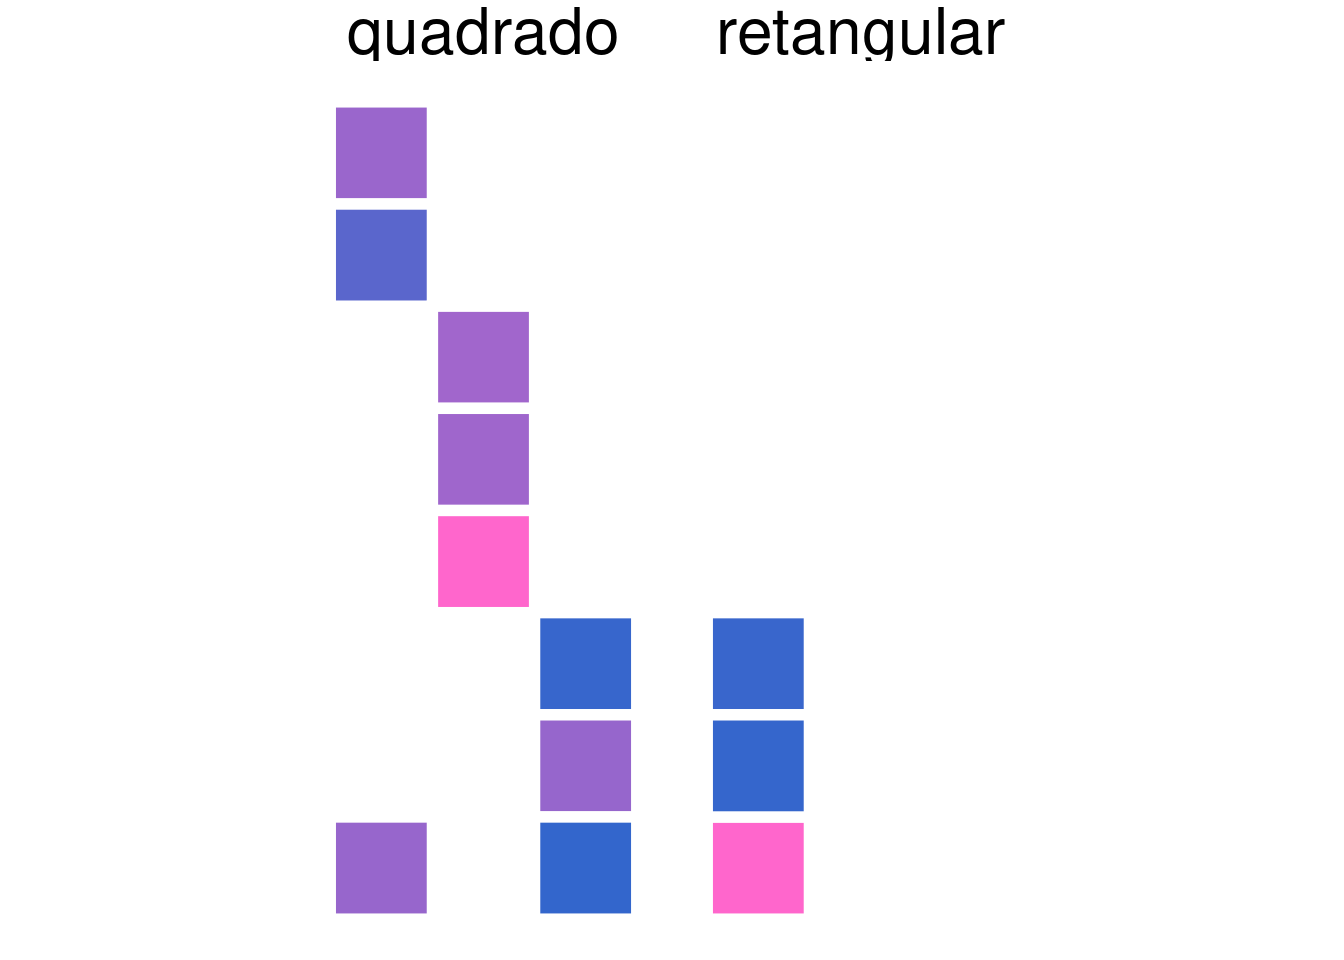
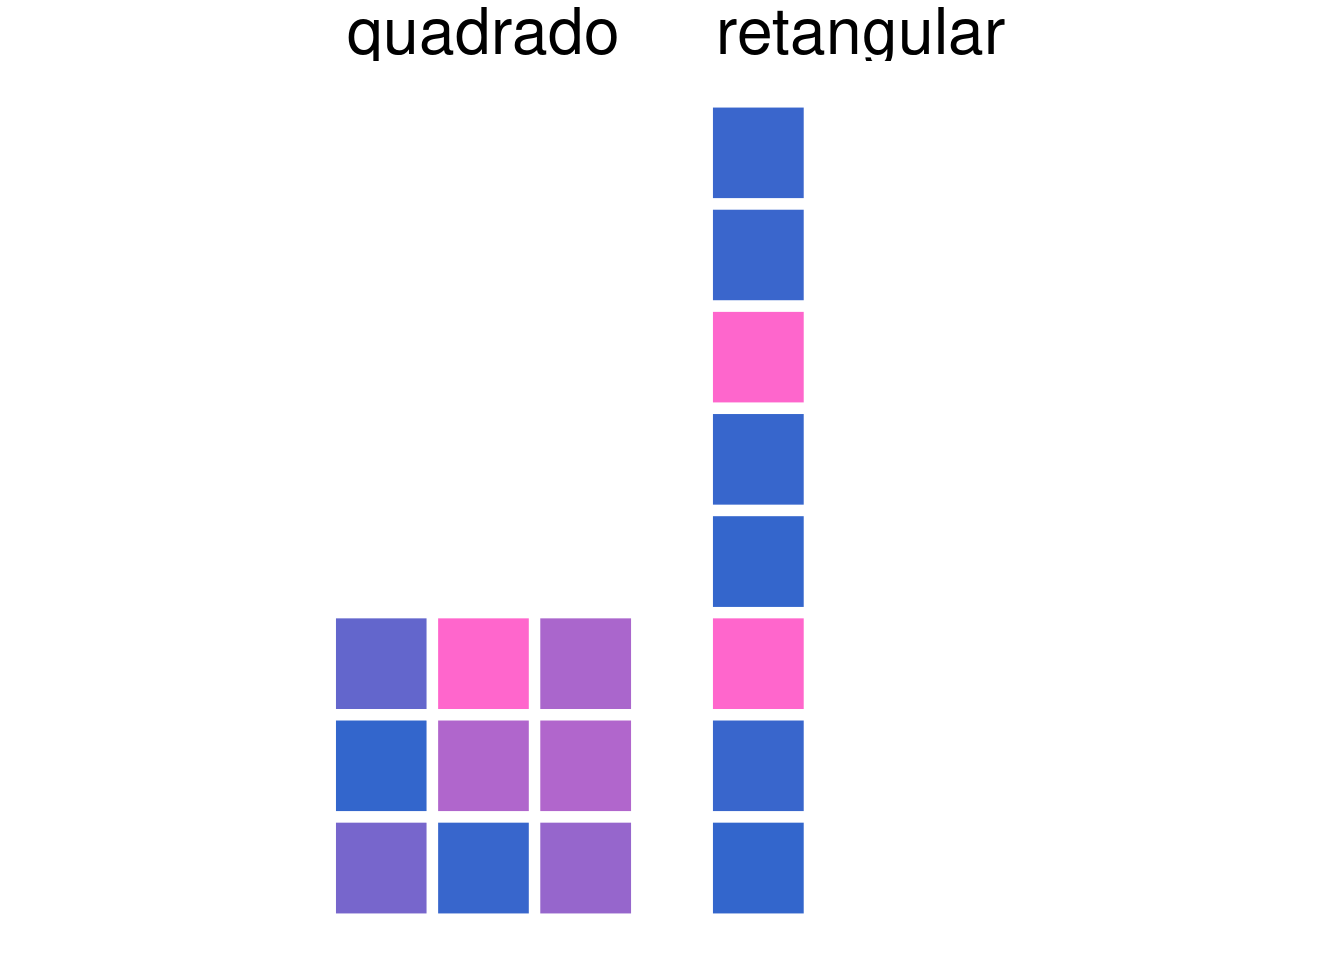
fix quadrado vs retangulo

Changed region(s): [[0.25, 0.0938, 0.4688, 0.9688], [0.5312, 0.0938, 0.625, 0.75], [0.5312, 0.8438, 0.625, 0.9688]]

diff --git a/content/blog/2020-12-30-retangulo-vs-quadrado.html b/content/blog/2020-12-30-retangulo-vs-quadrado.html
@@ -10,12 +10,11 @@ summary: "Em modelos de CNN é comum usar kernels quadrados. Mas a depender do p
 draft: false
 ---
 
-<script src="/rmarkdown-libs/header-attrs/header-attrs.js"></script>
 
 
 <div id="exemplo-passarinho-versus-sapo" class="section level2">
 <h2>Exemplo: Passarinho versus Sapo</h2>
-<p>Em modelos de CNN é comum usar kernels quadrados. Mas a depender do problema, kernels com outros formatos podem ajudar como mostrado em <span class="citation">(<a href="#ref-inproceedings" role="doc-biblioref">Sun, Ozay, and Okatani 2016</a>)</span>! Um exemplo é o kernel retangular quando se está mexendo com sons e seus respectivos espectrogramas. Para ilustar eu vou criar dois “espectrogramas” bem simples, assim:</p>
+<p>Em modelos de CNN é comum usar kernels quadrados. Mas a depender do problema, kernels com outros formatos podem ajudar como mostrado em <span class="citation">(Sun, Ozay, and Okatani 2016)</span>! Um exemplo é o kernel retangular quando se está mexendo com sons e seus respectivos espectrogramas. Para ilustar eu vou criar dois “espectrogramas” bem simples, assim:</p>
 <pre class="r"><code>library(torch)
 library(tidyverse)
 library(mestrado)
@@ -71,20 +70,20 @@ Figure 1: Espectrogramas para um sapo e um passarinho. Os animais fazem sons em 
 conv_quadrada(x)
 ## torch_tensor
 ## (1,1,.,.) = 
-##   0.4738  0.4164  0.1471  0.3151
-##   0.4156  0.2543  0.0832  0.3151
-##  -0.2593 -0.1353  0.0961  0.3151
-##   0.3151  0.3151  0.3151  0.3151
-##   0.3151  0.3151  0.3151  0.3151
-##   0.3151  0.3151  0.3151  0.3151
+##   0.2844  0.1517  0.2313  0.4015
+##  -0.1726  0.0824  0.3337  0.4015
+##   0.6913  0.5324  0.2523  0.4015
+##   0.4015  0.4015  0.4015  0.4015
+##   0.4015  0.4015  0.4015  0.4015
+##   0.4015  0.4015  0.4015  0.4015
 ## 
 ## (2,1,.,.) = 
-##   0.3151  0.3151  0.3151  0.3151
-##   0.3151  0.3151  0.3151  0.3151
-##   0.3151  0.3151  0.3151  0.3151
-##   0.4738  0.4164  0.1471  0.3151
-##   0.4156  0.2543  0.0832  0.3151
-##  -0.2593 -0.1353  0.0961  0.3151
+##   0.4015  0.4015  0.4015  0.4015
+##   0.4015  0.4015  0.4015  0.4015
+##   0.4015  0.4015  0.4015  0.4015
+##   0.2844  0.1517  0.2313  0.4015
+##  -0.1726  0.0824  0.3337  0.4015
+##   0.6913  0.5324  0.2523  0.4015
 ## [ CPUFloatType{2,1,6,4} ]</code></pre>
 </div>
 <div id="cnn-retangular" class="section level4">
@@ -93,10 +92,10 @@ conv_quadrada(x)
 conv_retangular(x)
 ## torch_tensor
 ## (1,1,.,.) = 
-##   0.1209  0.1209  0.1209 -0.0246 -0.0246 -0.0246
+##  -0.3380 -0.3380 -0.3380 -0.4634 -0.4634 -0.4634
 ## 
 ## (2,1,.,.) = 
-##  -0.3217 -0.3217 -0.3217 -0.0246 -0.0246 -0.0246
+##  -0.6774 -0.6774 -0.6774 -0.4634 -0.4634 -0.4634
 ## [ CPUFloatType{2,1,1,6} ]</code></pre>
 <p>Comentário: A saída <code>1x6</code> pode ser vista como uma média ponderada das frequências em cada um dos 6 instantes de tempo. E essa ponderação é feita pelos 8 pesos do kernel. Intuitivamente, se algum peso der zero, quer dizer que aquela faixa de frequência não é boa para distinguir passarinho de sapo.</p>
 </div>
@@ -146,22 +145,22 @@ for(i in 1:100) {
 pesos_kernel_quadrado &lt;- conv_quadrada$parameters$weight$squeeze(1)$squeeze(1)
 pesos_kernel_quadrado
 ## torch_tensor
-##  0.2186  0.2301  0.1065
-##  0.2218 -0.2280 -0.2166
-##  0.1474 -0.3397 -0.1016
+##  0.1122 -0.3657 -0.2282
+##  0.0341  0.2376  0.2391
+##  0.1440  0.0419 -0.1955
 ## [ CPUFloatType{3,3} ]
 # retangular
 pesos_kernel_retangular &lt;- conv_retangular$parameters$weight$squeeze(1)$squeeze(1)
 pesos_kernel_retangular
 ## torch_tensor
-## -0.1140
-## -0.0196
-## -4.5321
-## -0.1436
-##  0.0710
-##  4.6646
-##  0.1555
-## -0.0643
+## -0.1688
+##  0.1600
+## -4.5302
+## -0.1044
+## -0.0353
+##  4.5600
+##  0.1299
+## -0.0066
 ## [ CPUFloatType{8,1} ]</code></pre>
 <p>É possível observar que:</p>
 <ol style="list-style-type: decimal">
@@ -176,14 +175,14 @@ pesos_kernel_retangular
 <pre class="r"><code># quadrado
 conv_quadrada(x) %&gt;% nnf_sigmoid() %&gt;% torch_mean(dim = c(2,3,4))
 ## torch_tensor
-##  0.5005
-##  0.5005
+##  0.4996
+##  0.4996
 ## [ CPUFloatType{2} ]
 # retangular
 conv_retangular(x) %&gt;% nnf_sigmoid() %&gt;% torch_mean(dim = c(2,3,4))
 ## torch_tensor
-##  0.7438
-##  0.2595
+##  0.7422
+##  0.2587
 ## [ CPUFloatType{2} ]</code></pre>
 </div>
 </div>
@@ -198,9 +197,9 @@ conv_retangular(x) %&gt;% nnf_sigmoid() %&gt;% torch_mean(dim = c(2,3,4))
 </div>
 <div id="referências" class="section level2 unnumbered">
 <h2>Referências</h2>
-<div id="refs" class="references csl-bib-body hanging-indent">
-<div id="ref-inproceedings" class="csl-entry">
-Sun, Zhun, Mete Ozay, and Takayuki Okatani. 2016. <span>“Design of Kernels in Convolutional Neural Networks for Image Classification.”</span> In, 9911:51–66. <a href="https://doi.org/10.1007/978-3-319-46478-7_4">https://doi.org/10.1007/978-3-319-46478-7_4</a>.
+<div id="refs" class="references">
+<div id="ref-inproceedings">
+<p>Sun, Zhun, Mete Ozay, and Takayuki Okatani. 2016. “Design of Kernels in Convolutional Neural Networks for Image Classification.” In, 9911:51–66. <a href="https://doi.org/10.1007/978-3-319-46478-7_4">https://doi.org/10.1007/978-3-319-46478-7_4</a>.</p>
 </div>
 </div>
 </div>
